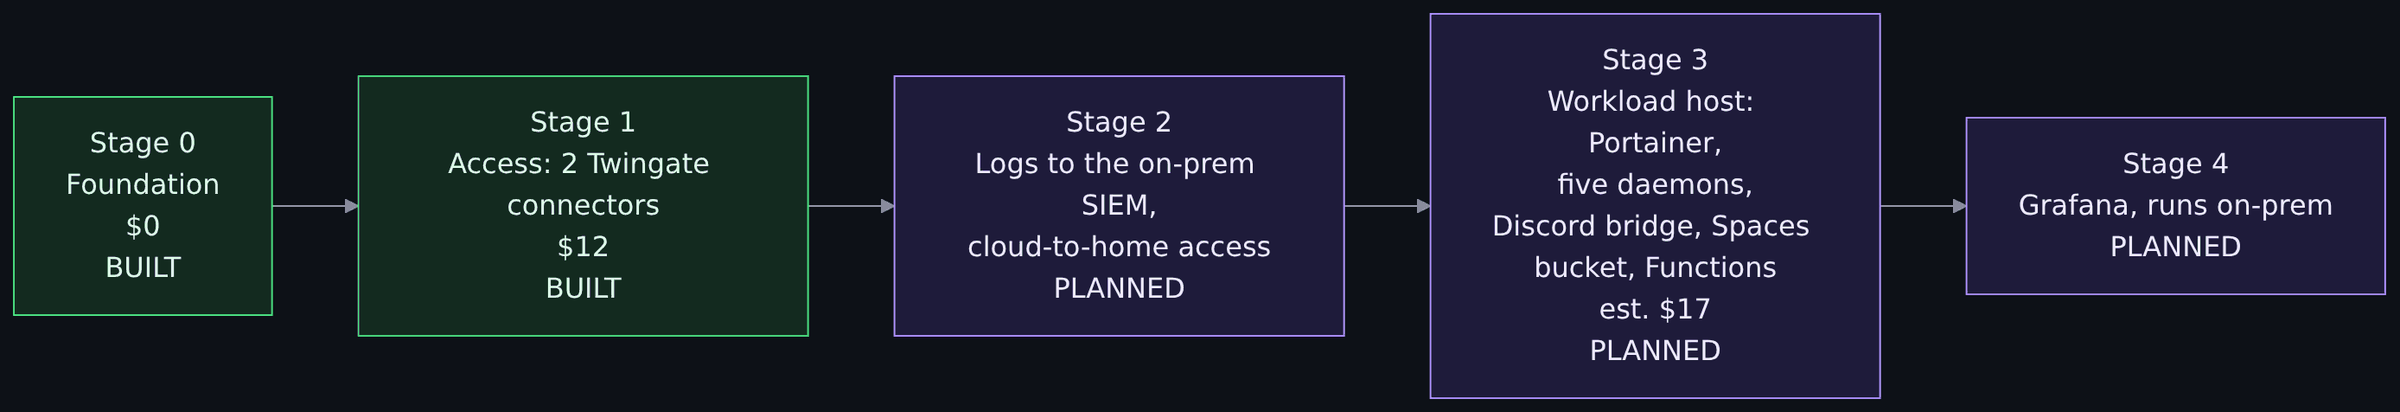
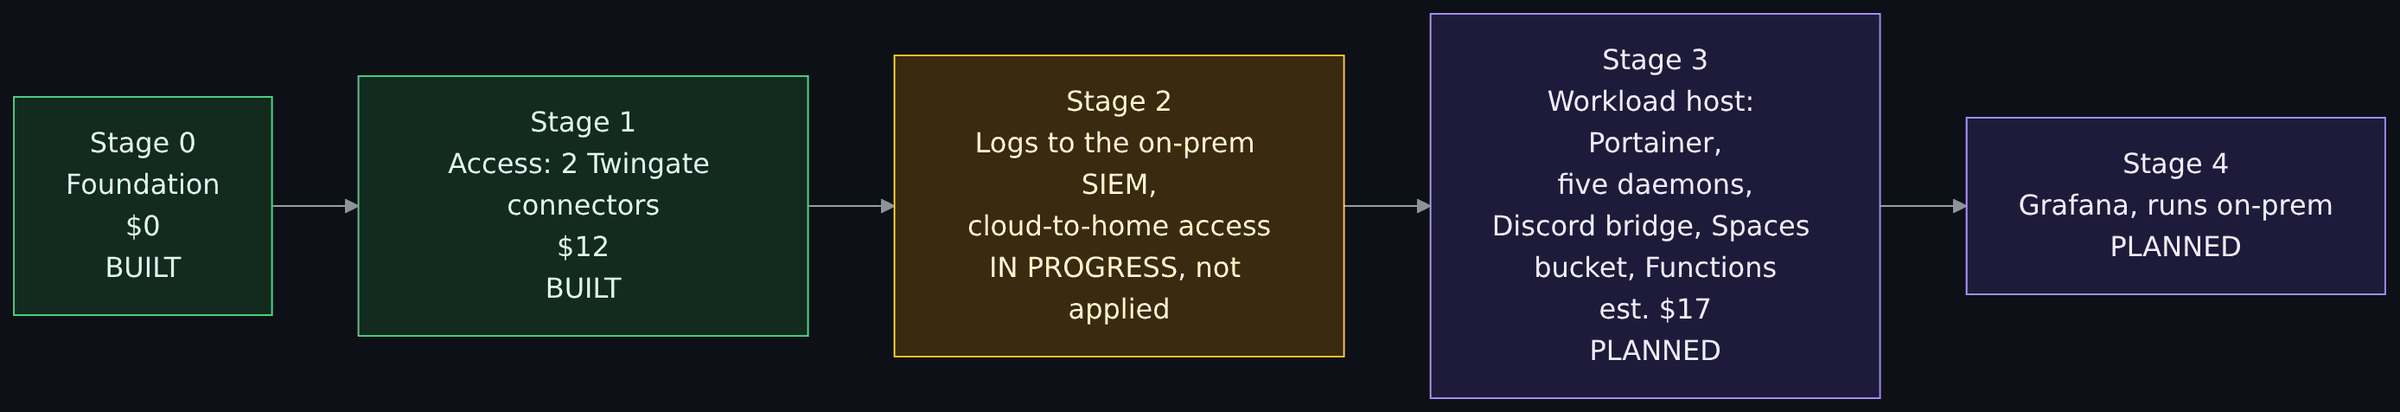
docs: bring the Roadmap stage 2 status up to date (#106)
The stage 2 section said no telemetry stack existed and listed the node
exporter, log agent and connector metrics rules as not built. All are on
main (#146, #154, #151, #153). Mark stage 2 in progress, not applied, in the
diagram and list what is still open. Refresh the README row and two wiki
build-status lines.

Changed region(s): [[0.3438, 0.1165, 0.5625, 0.8738]]

diff --git a/docs/wiki/Roadmap.md b/docs/wiki/Roadmap.md
@@ -4,7 +4,7 @@
 
 The environment grows one stage at a time. Each stage gets its own design, its own cost approval and its own guide before it costs anything. Working ceiling in the current phase: $30 per month. Every phase carries its own ceiling in `docs/stages/approved.json`, with a reason and a decision date, and a later phase can raise it on purpose (see the [per-phase cost table](#cost-per-phase) below).
 
-![Diagram, Roadmap: Stage 0 Foundation $0 BUILT; Stage 1 Access: 2 Twingate connectors $12 BUILT; Stage 2 Logs to the on-prem SIEM, cloud-to-home access PLANNED; Stage 3 Workload host: Portainer, five daemons, Discord brid](images/roadmap-diagram-1.png)
+![Diagram, Roadmap: Stage 0 Foundation $0 BUILT; Stage 1 Access: 2 Twingate connectors $12 BUILT; Stage 2 Logs to the on-prem SIEM, cloud-to-home access IN PROGRESS, not applied; Stage 3 Workload host: Portainer, five daemons, Discord brid](images/roadmap-diagram-1.png)
 
 <details>
 <summary>Diagram source (Mermaid)</summary>
@@ -13,12 +13,13 @@ The environment grows one stage at a time. Each stage gets its own design, its o
 flowchart LR
     s0["Stage 0<br/>Foundation<br/>$0<br/>BUILT"]:::done
     s1["Stage 1<br/>Access: 2 Twingate connectors<br/>$12<br/>BUILT"]:::done
-    s2["Stage 2<br/>Logs to the on-prem SIEM,<br/>cloud-to-home access<br/>PLANNED"]:::plan
+    s2["Stage 2<br/>Logs to the on-prem SIEM,<br/>cloud-to-home access<br/>IN PROGRESS, not applied"]:::wip
     s3["Stage 3<br/>Workload host: Portainer,<br/>five daemons,<br/>Discord bridge, Spaces bucket, Functions<br/>est. $17<br/>PLANNED"]:::plan
     s4["Stage 4<br/>Grafana, runs on-prem<br/>PLANNED"]:::plan
     s0 --> s1 --> s2 --> s3 --> s4
 
     classDef done fill:#132a1f,stroke:#4ade80,color:#dcfce7
+    classDef wip fill:#3a2a0f,stroke:#fbbf24,color:#fef3c7
     classDef plan fill:#1e1b3a,stroke:#a78bfa,color:#ede9fe
 ```
 
@@ -54,20 +55,22 @@ Open follow-ups from this stage:
 
 - Roll out the droplet metadata endpoint lock (`metadata_lock`, built and off by default, not yet tested on a real droplet).
 - Roll out the default-drop host firewall (`host_firewall`, built and off by default, not yet tested on a real droplet; stage it one connector at a time).
-- Audit logging on the droplets.
+- Audit logging on the droplets (written under stage 2, below; not applied).
 - Optional: upgrade the Twingate provider from 3.x to 4.x or 5.x (issue #93). The `access_group` block is not deprecated, so nothing is overdue; the 3.x line has had no release since 3.8.0.
 - Attach the Spacelift push policy. It is written and tested (`.spacelift/policies/push.rego`): it never proposes a run, so pull requests from forks or from this repository never run in Spacelift, and docs-only merges no longer start tracked runs. It takes effect only once created in Spacelift, and push policies need a paid Spacelift plan. On the free plan, narrow each stack's project root and globs instead. Both routes are in the secrets runbook, section 9.
 - First-run checks: log masking and the runner image.
 
 ## Stage 2: logging and the link home (design merged, cloud side in progress, not applied)
 
-Design draft: [2026-10-11 stage 2 logging](https://github.com/ChiefGyk3D/Clouds-Against-Humanity/blob/main/docs/superpowers/specs/2026-10-11-stage-2-logging-design.md). Prometheus pulls the cloud connectors over a Twingate headless client; one home connector per VLAN (logging, AI), with Twingate groups carrying identity-level segmentation and pfSense as a connector-level backstop; Wazuh agents push logs home over a second service account; both paths are single-port resources. Cloud cost $0 for the reference environment (home Grafana, nothing new in the cloud). The [2026-10-16 settings and mini SOC design](https://github.com/ChiefGyk3D/Clouds-Against-Humanity/blob/main/docs/superpowers/specs/2026-10-16-stage2-settings-and-mini-soc-design.md) first adds a settings layer (variables, example values, `resource_key`, `site_name`, a timezone variable) and stack instances for a second site in the cost gate; those are merged, while no telemetry stack exists yet.
+Design draft: [2026-10-11 stage 2 logging](https://github.com/ChiefGyk3D/Clouds-Against-Humanity/blob/main/docs/superpowers/specs/2026-10-11-stage-2-logging-design.md). Prometheus pulls the cloud connectors over a Twingate headless client; one home connector per VLAN (logging, AI), with Twingate groups carrying identity-level segmentation and pfSense as a connector-level backstop; Wazuh agents push logs home over a second service account; both paths are single-port resources. Cloud cost $0 for the reference environment (home Grafana, nothing new in the cloud). The [2026-10-16 settings and mini SOC design](https://github.com/ChiefGyk3D/Clouds-Against-Humanity/blob/main/docs/superpowers/specs/2026-10-16-stage2-settings-and-mini-soc-design.md) first adds a settings layer (variables, example values, `resource_key`, `site_name`, a timezone variable) and stack instances for a second site in the cost gate; those are merged, and so is the cloud-side telemetry code that builds on them (below).
 
-Build status: **design merged, cloud side in progress, not applied.** On main today: the settings layer, the cost gate's stack instances, the connector telemetry options in the access stack (all off by default) and the telemetry stack skeleton, which creates Twingate objects only behind two flags that default to false ([stage 2 guide](https://github.com/ChiefGyk3D/Clouds-Against-Humanity/blob/main/docs/stages/02-telemetry.md)). Not built: the node exporter and log agent on the droplets, the connector firewall changes for metrics, and everything at home. The guide's verification section lists the read-only checks to run after an apply, each marked not run yet, and the [home-side runbook](Stage-2-Home-Side-Runbook.md) is the operator's side (VLAN, firewall allow-list, recorded negative tests, headless client, target file). Nothing is applied.
+Build status: **design merged, cloud side written and mock-tested, not applied.** On main today: the settings layer, the cost gate's stack instances and the telemetry stack, which creates Twingate objects only behind two flags that default to false ([stage 2 guide](https://github.com/ChiefGyk3D/Clouds-Against-Humanity/blob/main/docs/stages/02-telemetry.md)). On the connectors, all opt-in and off by default: the node exporter with metrics firewall rules (tag-sourced on DigitalOcean, security-group-sourced on AWS), connector telemetry options, and a Wazuh agent with auditd that pulls its enrollment secret from Doppler on first boot. The repository also ships site-aware Grafana dashboards ([Grafana dashboards](Grafana-Dashboards.md)).
+
+Still open, and the guide says so itself: nothing is applied, so none of this has run on a real machine. The Twingate headless client that would carry agent traffic home is not built. The home side (VLAN, firewall allow-list, headless client, target file) is not done, and no event has been seen in the SIEM. The memory the agent and exporter take on the 1 GB droplets is unmeasured, and the connector's metrics bind address is unverified. The guide's verification section lists the read-only checks to run after an apply, each marked not run yet, and the [home-side runbook](Stage-2-Home-Side-Runbook.md) is the operator's side.
 
 - Ship connector and access logs to the existing on-prem OpenSearch and Wazuh SIEM ([siem-docker-stack](https://github.com/ChiefGyk3D/siem-docker-stack)). No new log service in the cloud.
 - Cloud-to-home access through a home-side Twingate connector, a headless client and a service account, with its own group. The home connector sits on a VLAN that reaches only what it needs.
-- Audit logging on the droplets lands here.
+- Audit logging on the droplets: auditd and the Wazuh agent are written (opt-in, not applied); this closes when they run on a real connector.
 
 ## Stage 3: workloads (planned)
 

diff --git a/README.md b/README.md
@@ -66,7 +66,7 @@ That is not "VPNs are always wrong". WireGuard is a very different animal from a
 |---|---|---|---|
 | 0 | Foundation: project, VPC, baseline firewall with zero inbound rules | $0 | Built |
 | 1 | Access: two Twingate connectors, connector firewall, per-host SSH resources | $12 | Built |
-| 2 | Logs to the on-prem SIEM, cloud-to-home access | $0 in the cloud | Planned (the settings layer and the cost gate's stack instances that prepare it are merged) |
+| 2 | Logs to the on-prem SIEM, cloud-to-home access | $0 in the cloud | In progress: the cloud-side code (settings layer, telemetry stack, opt-in node exporter, Wazuh agent and auditd, dashboards) is merged but nothing is applied |
 | 3 | Workload host: Portainer, five daemons, Discord-to-Matrix bridge, Spaces bucket, Functions | est. $17 | Planned |
 | 4 | Grafana, on-prem | $0 in the cloud | Planned (a cloud Grafana is a learner option, see [Build your own mini SOC](docs/wiki/Build-Your-Own-Mini-SOC.md)) |
 | Edge | Public edge (DMZ) and hardening | past the ceiling | Planned, design first |

diff --git a/docs/wiki/Build-Your-Own-Mini-SOC.md b/docs/wiki/Build-Your-Own-Mini-SOC.md
@@ -183,4 +183,4 @@ The stages end, but the learning does not. Each of these is a project:
 
 Next: the [Roadmap](Roadmap.md), which says what is built and what is planned. Back to the [Reading order](Reading-Order.md).
 
-Build status: the first piece, the telemetry stack skeleton with every flag off, is described in the [stage 2 guide](https://github.com/ChiefGyk3D/Clouds-Against-Humanity/blob/main/docs/stages/02-telemetry.md). Nothing in it is applied.
+Build status: the cloud-side pieces (the telemetry stack with every flag off, the opt-in node exporter, the Wazuh agent and auditd) are written and described in the [stage 2 guide](https://github.com/ChiefGyk3D/Clouds-Against-Humanity/blob/main/docs/stages/02-telemetry.md). Nothing in them is applied.

diff --git a/docs/wiki/Cloud-Telemetry-What-and-Why.md b/docs/wiki/Cloud-Telemetry-What-and-Why.md
@@ -89,4 +89,4 @@ Write your answers before opening the reference.
 
 Next: [Multiple sites and identity](Multiple-Sites-and-Identity.md). Back to the [Reading order](Reading-Order.md).
 
-Where this is built: the [stage 2 guide](https://github.com/ChiefGyk3D/Clouds-Against-Humanity/blob/main/docs/stages/02-telemetry.md) describes the telemetry stack skeleton (everything off, nothing applied).
+Where this is built: the [stage 2 guide](https://github.com/ChiefGyk3D/Clouds-Against-Humanity/blob/main/docs/stages/02-telemetry.md) describes the telemetry stack and the opt-in exporter and agent on the connectors (everything off by default, nothing applied).
